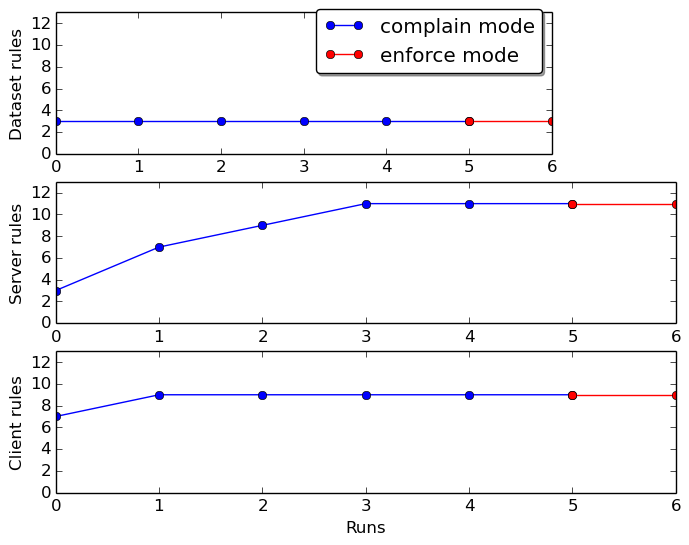
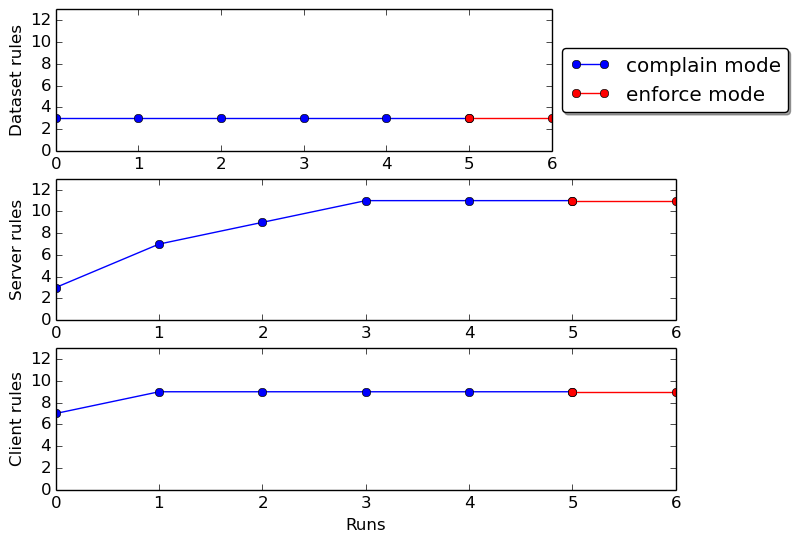
Latest plots

Changed region(s): [[0.0, 0.0, 1.0, 0.9742]]

diff --git a/Benchmarks/media-streaming_plot_testing/Parser/metrics/plot_rules_total.py b/Benchmarks/media-streaming_plot_testing/Parser/metrics/plot_rules_total.py
@@ -50,7 +50,7 @@ ax.plot(x_Axis, rules[2], label="server", color="blue", marker='o')
 box = ax.get_position()
 ax.set_position([box.x0, box.y0, box.width * 0.8, box.height])
 
-ax.legend(loc='center left', bbox_to_anchor=(1, 0.5), fancybox=True, shadow=True)
+ax.legend(loc='lower left', bbox_to_anchor=(1, 0.5), fancybox=True, shadow=True)
 #ax.legend(loc=0)
 #ax.grid()
 ax.set_xlabel("Runs")
@@ -127,7 +127,7 @@ ax3.plot(enf_rules, part_2c, label="enforce mode", color="red", marker='o')
 box = ax1.get_position()
 ax1.set_position([box.x0, box.y0, box.width * 0.8, box.height])
 
-ax1.legend(loc='lower right', bbox_to_anchor=(1, 0.5), fancybox=True, shadow=True)
+ax1.legend(loc='center left', bbox_to_anchor=(1, 0.5), fancybox=True, shadow=True)
 
 
 #ax1.legend(loc=1,prop={'size': 12})
